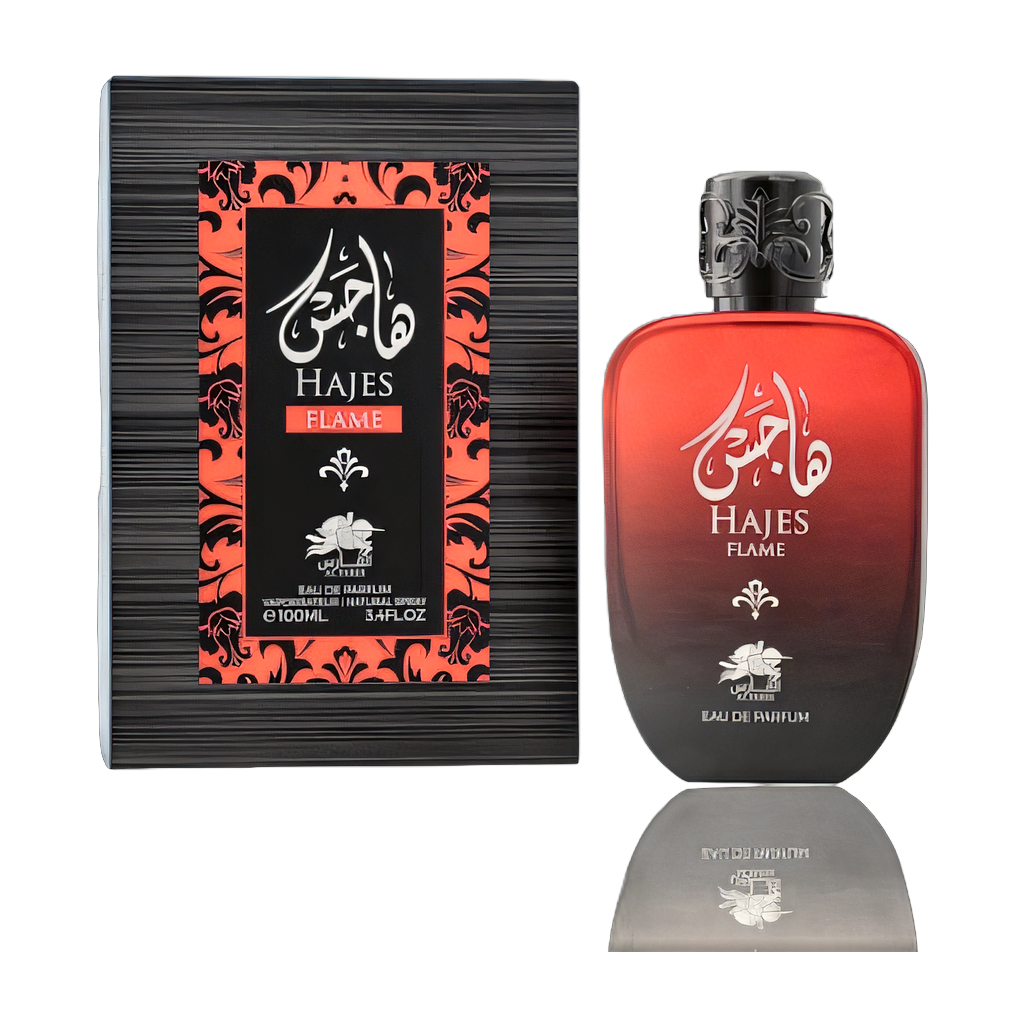
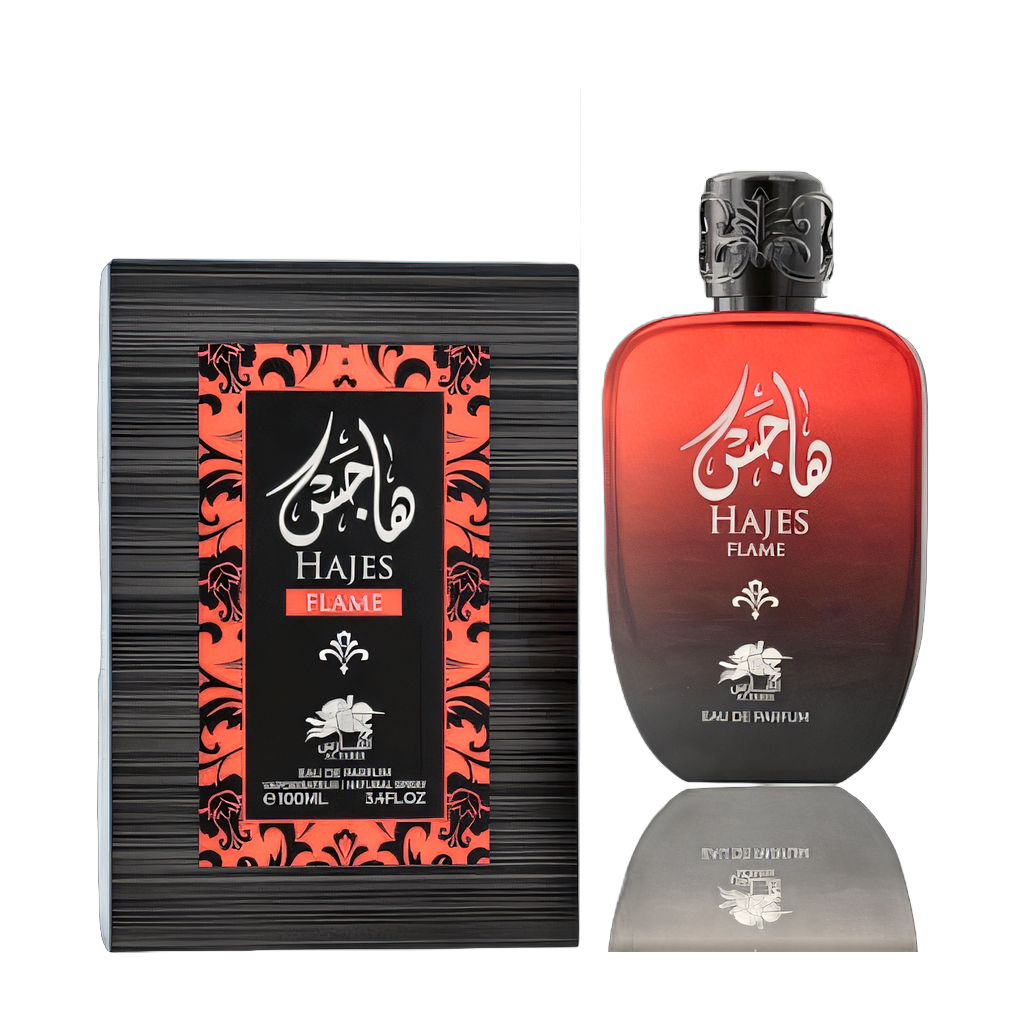
fix(images): straighten rolled boxes/bottles with rigid rotation and ground up to 195px

diff --git a/Al-Warda/scripts/generate_product_images.py b/Al-Warda/scripts/generate_product_images.py
@@ -2157,7 +2157,7 @@ def align_multi_object_floor(canvas):
                 continue
             s_plateau_y = int(np.percentile(core, 85))
             delta = target_bottom - s_plateau_y
-            if not (15 <= delta <= 165 and s_plateau_y >= h * 0.55):
+            if not (15 <= delta <= 195 and s_plateau_y >= h * 0.55):
                 continue
             sy = np.where(alpha[:, sx:ex + 1] > 35)[0]
             if len(sy) == 0:
@@ -2196,10 +2196,40 @@ def align_multi_object_floor(canvas):
     changed = False
     for sx, ex, s_min_y, s_max_y, s_solid_max_y, sw, sh in seg_info:
         delta = target_bottom - s_solid_max_y
-        if 3 <= delta <= 150 and sw >= 60 and sh >= 200 and s_solid_max_y >= h * 0.60:
+        if 3 <= delta <= 195 and sw >= 60 and sh >= 200 and s_solid_max_y >= h * 0.60:
             slice_rgba = arr[s_min_y:s_max_y + 1, sx:ex + 1].copy()
+            # Straighten rolled box/bottle segment via pure rigid rotation if both vertical edges lean together
+            if sw >= 120:
+                try:
+                    import cv2
+                    s_alpha = slice_rgba[:, :, 3]
+                    y_lo, y_hi = int(sh * 0.25), int(sh * 0.75)
+                    l_pts, r_pts = [], []
+                    for yy in range(y_lo, y_hi):
+                        row_x = np.where(s_alpha[yy, :] > 120)[0]
+                        if len(row_x) > 0:
+                            l_pts.append((float(yy), float(row_x.min())))
+                            r_pts.append((float(yy), float(row_x.max())))
+                    if len(l_pts) >= 20:
+                        l_deg = float(np.degrees(np.arctan(np.polyfit([p[0] for p in l_pts], [p[1] for p in l_pts], 1)[0])))
+                        r_deg = float(np.degrees(np.arctan(np.polyfit([p[0] for p in r_pts], [p[1] for p in r_pts], 1)[0])))
+                        if l_deg * r_deg > 0 and abs(l_deg - r_deg) <= 2.5:
+                            v_deg = (l_deg + r_deg) / 2.0
+                            if 2.0 <= abs(v_deg) <= 8.0:
+                                M_rot = cv2.getRotationMatrix2D((sw / 2.0, sh / 2.0), -v_deg, 1.0)
+                                slice_rgba = cv2.warpAffine(
+                                    slice_rgba, M_rot, (sw, sh),
+                                    flags=cv2.INTER_LANCZOS4,
+                                    borderMode=cv2.BORDER_CONSTANT,
+                                    borderValue=(0, 0, 0, 0),
+                                )
+                                r_sy = np.where(slice_rgba[:, :, 3] > 140)[0]
+                                if len(r_sy) > 0:
+                                    delta = target_bottom - (s_min_y + int(r_sy.max()))
+                except Exception:
+                    pass
             out[s_min_y:s_max_y + 1, sx:ex + 1] = 0
-            dst_y1 = min(h, s_min_y + delta)
+            dst_y1 = max(0, min(h, s_min_y + delta))
             dst_y2 = min(h, s_max_y + 1 + delta)
             copy_h = dst_y2 - dst_y1
             if copy_h > 0:
